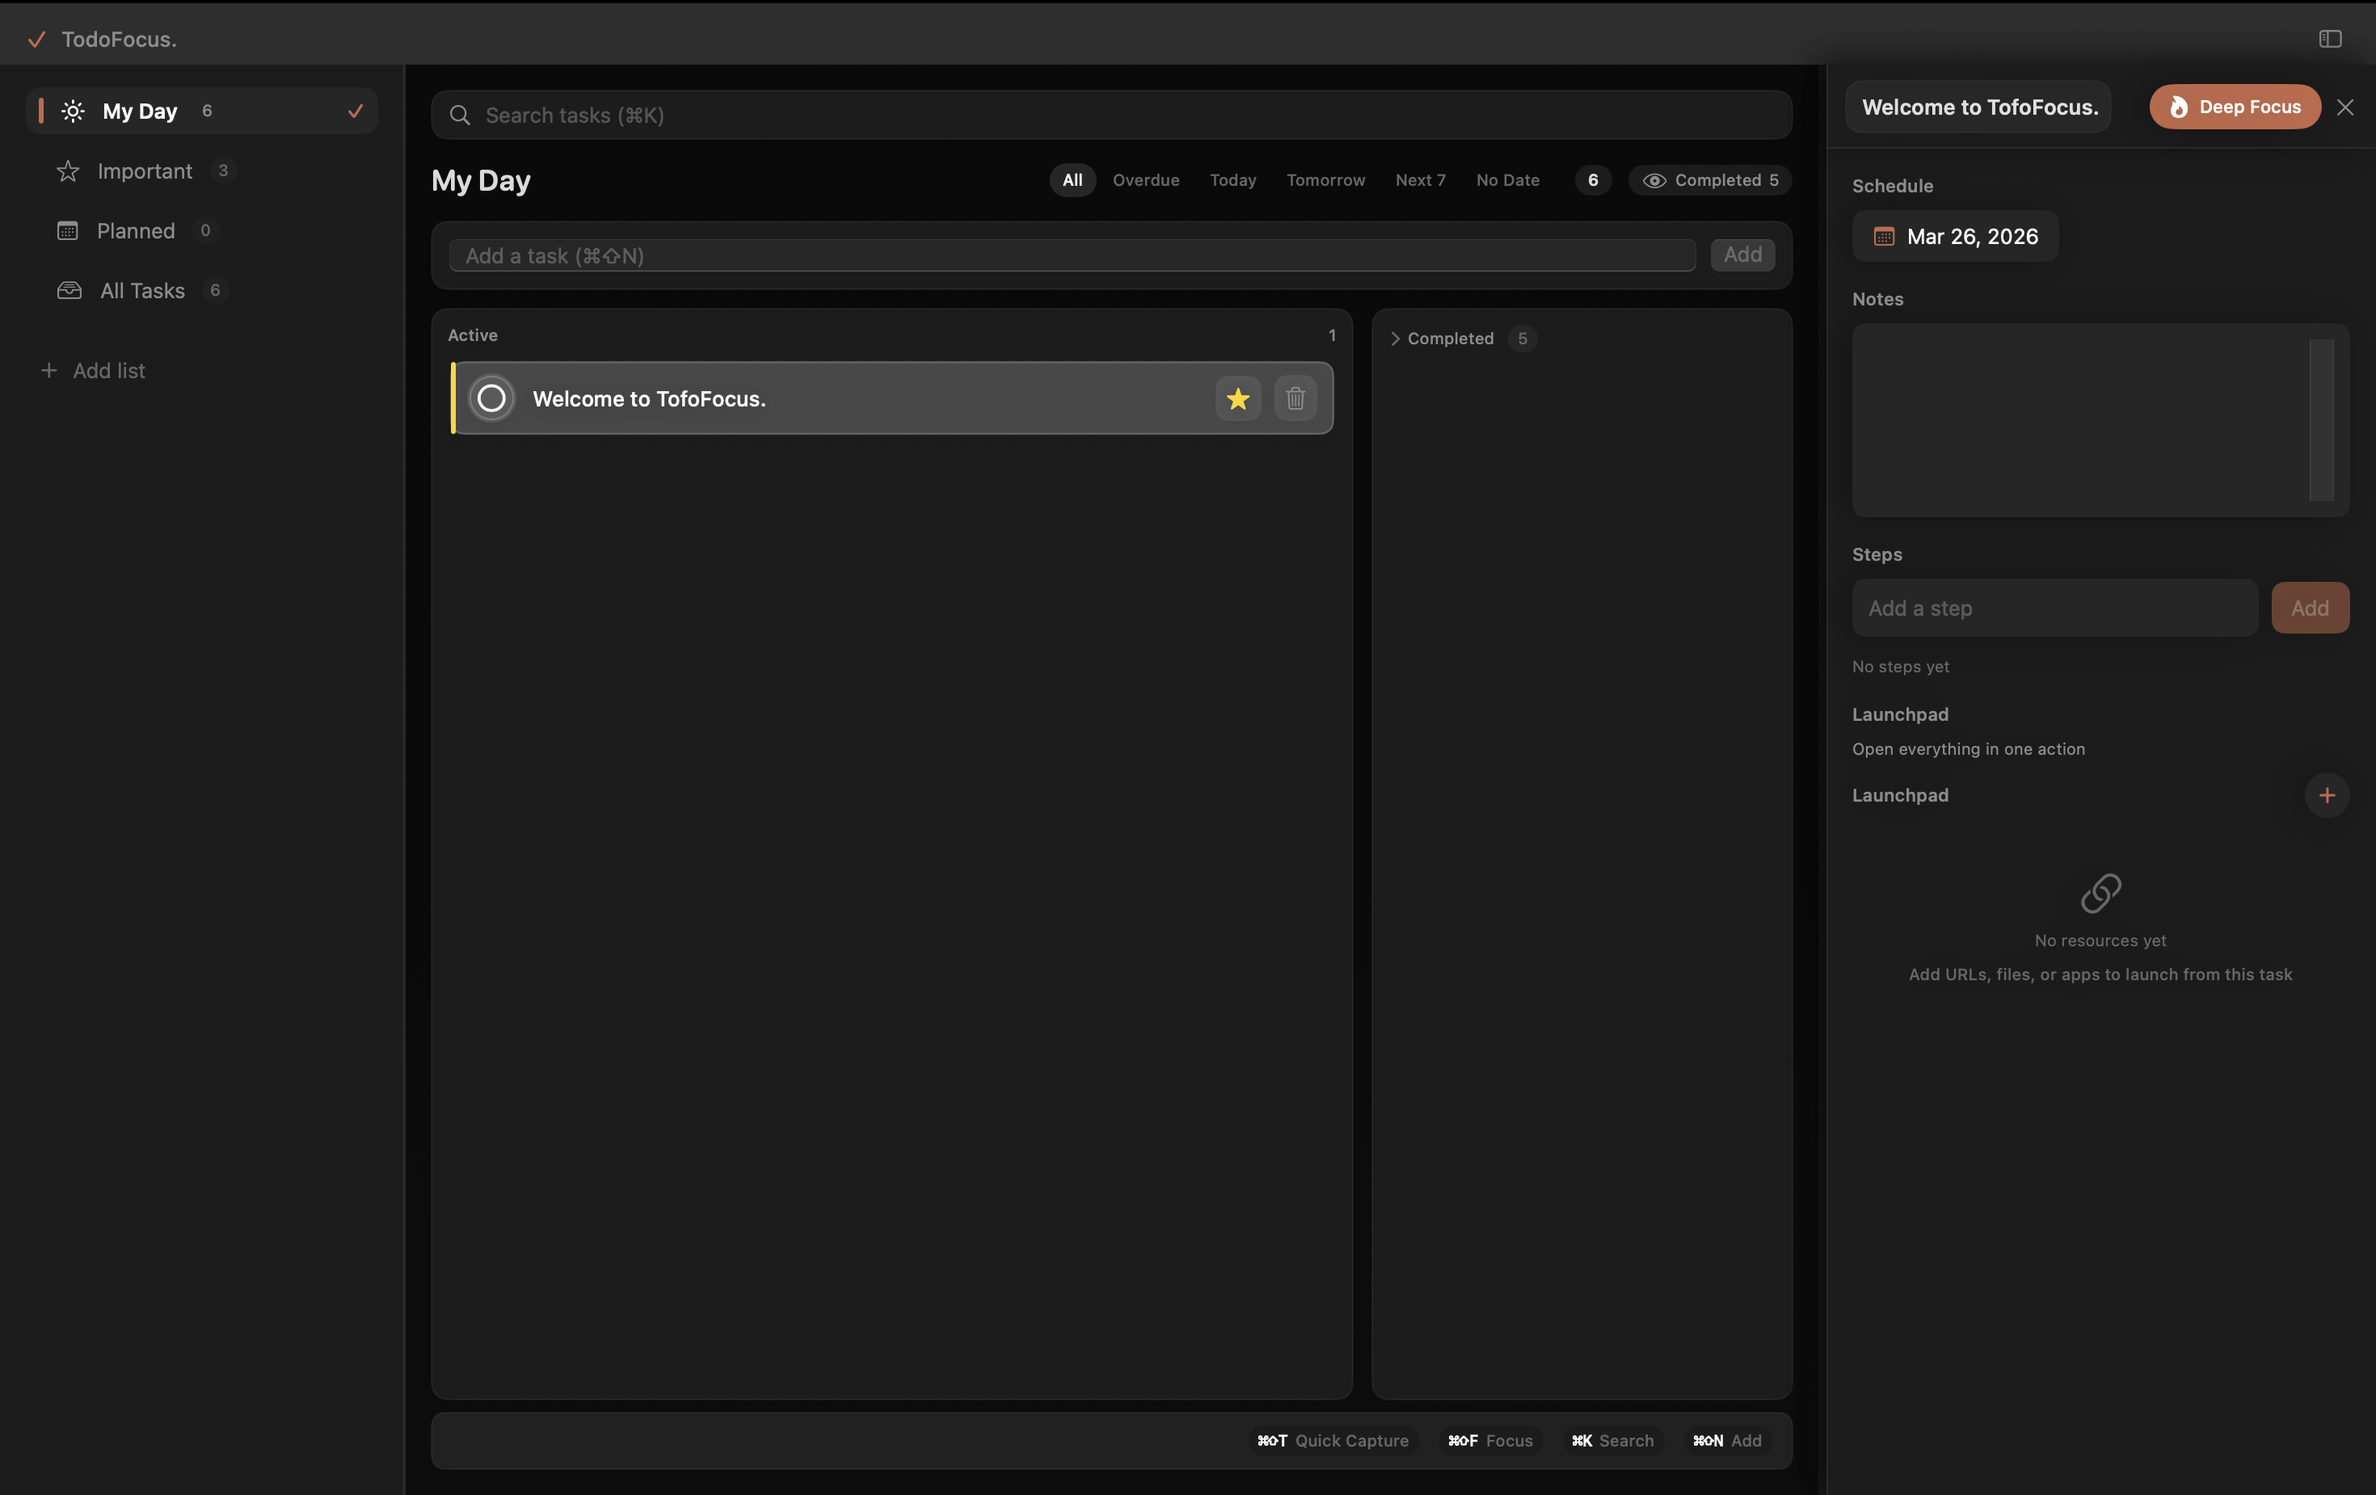
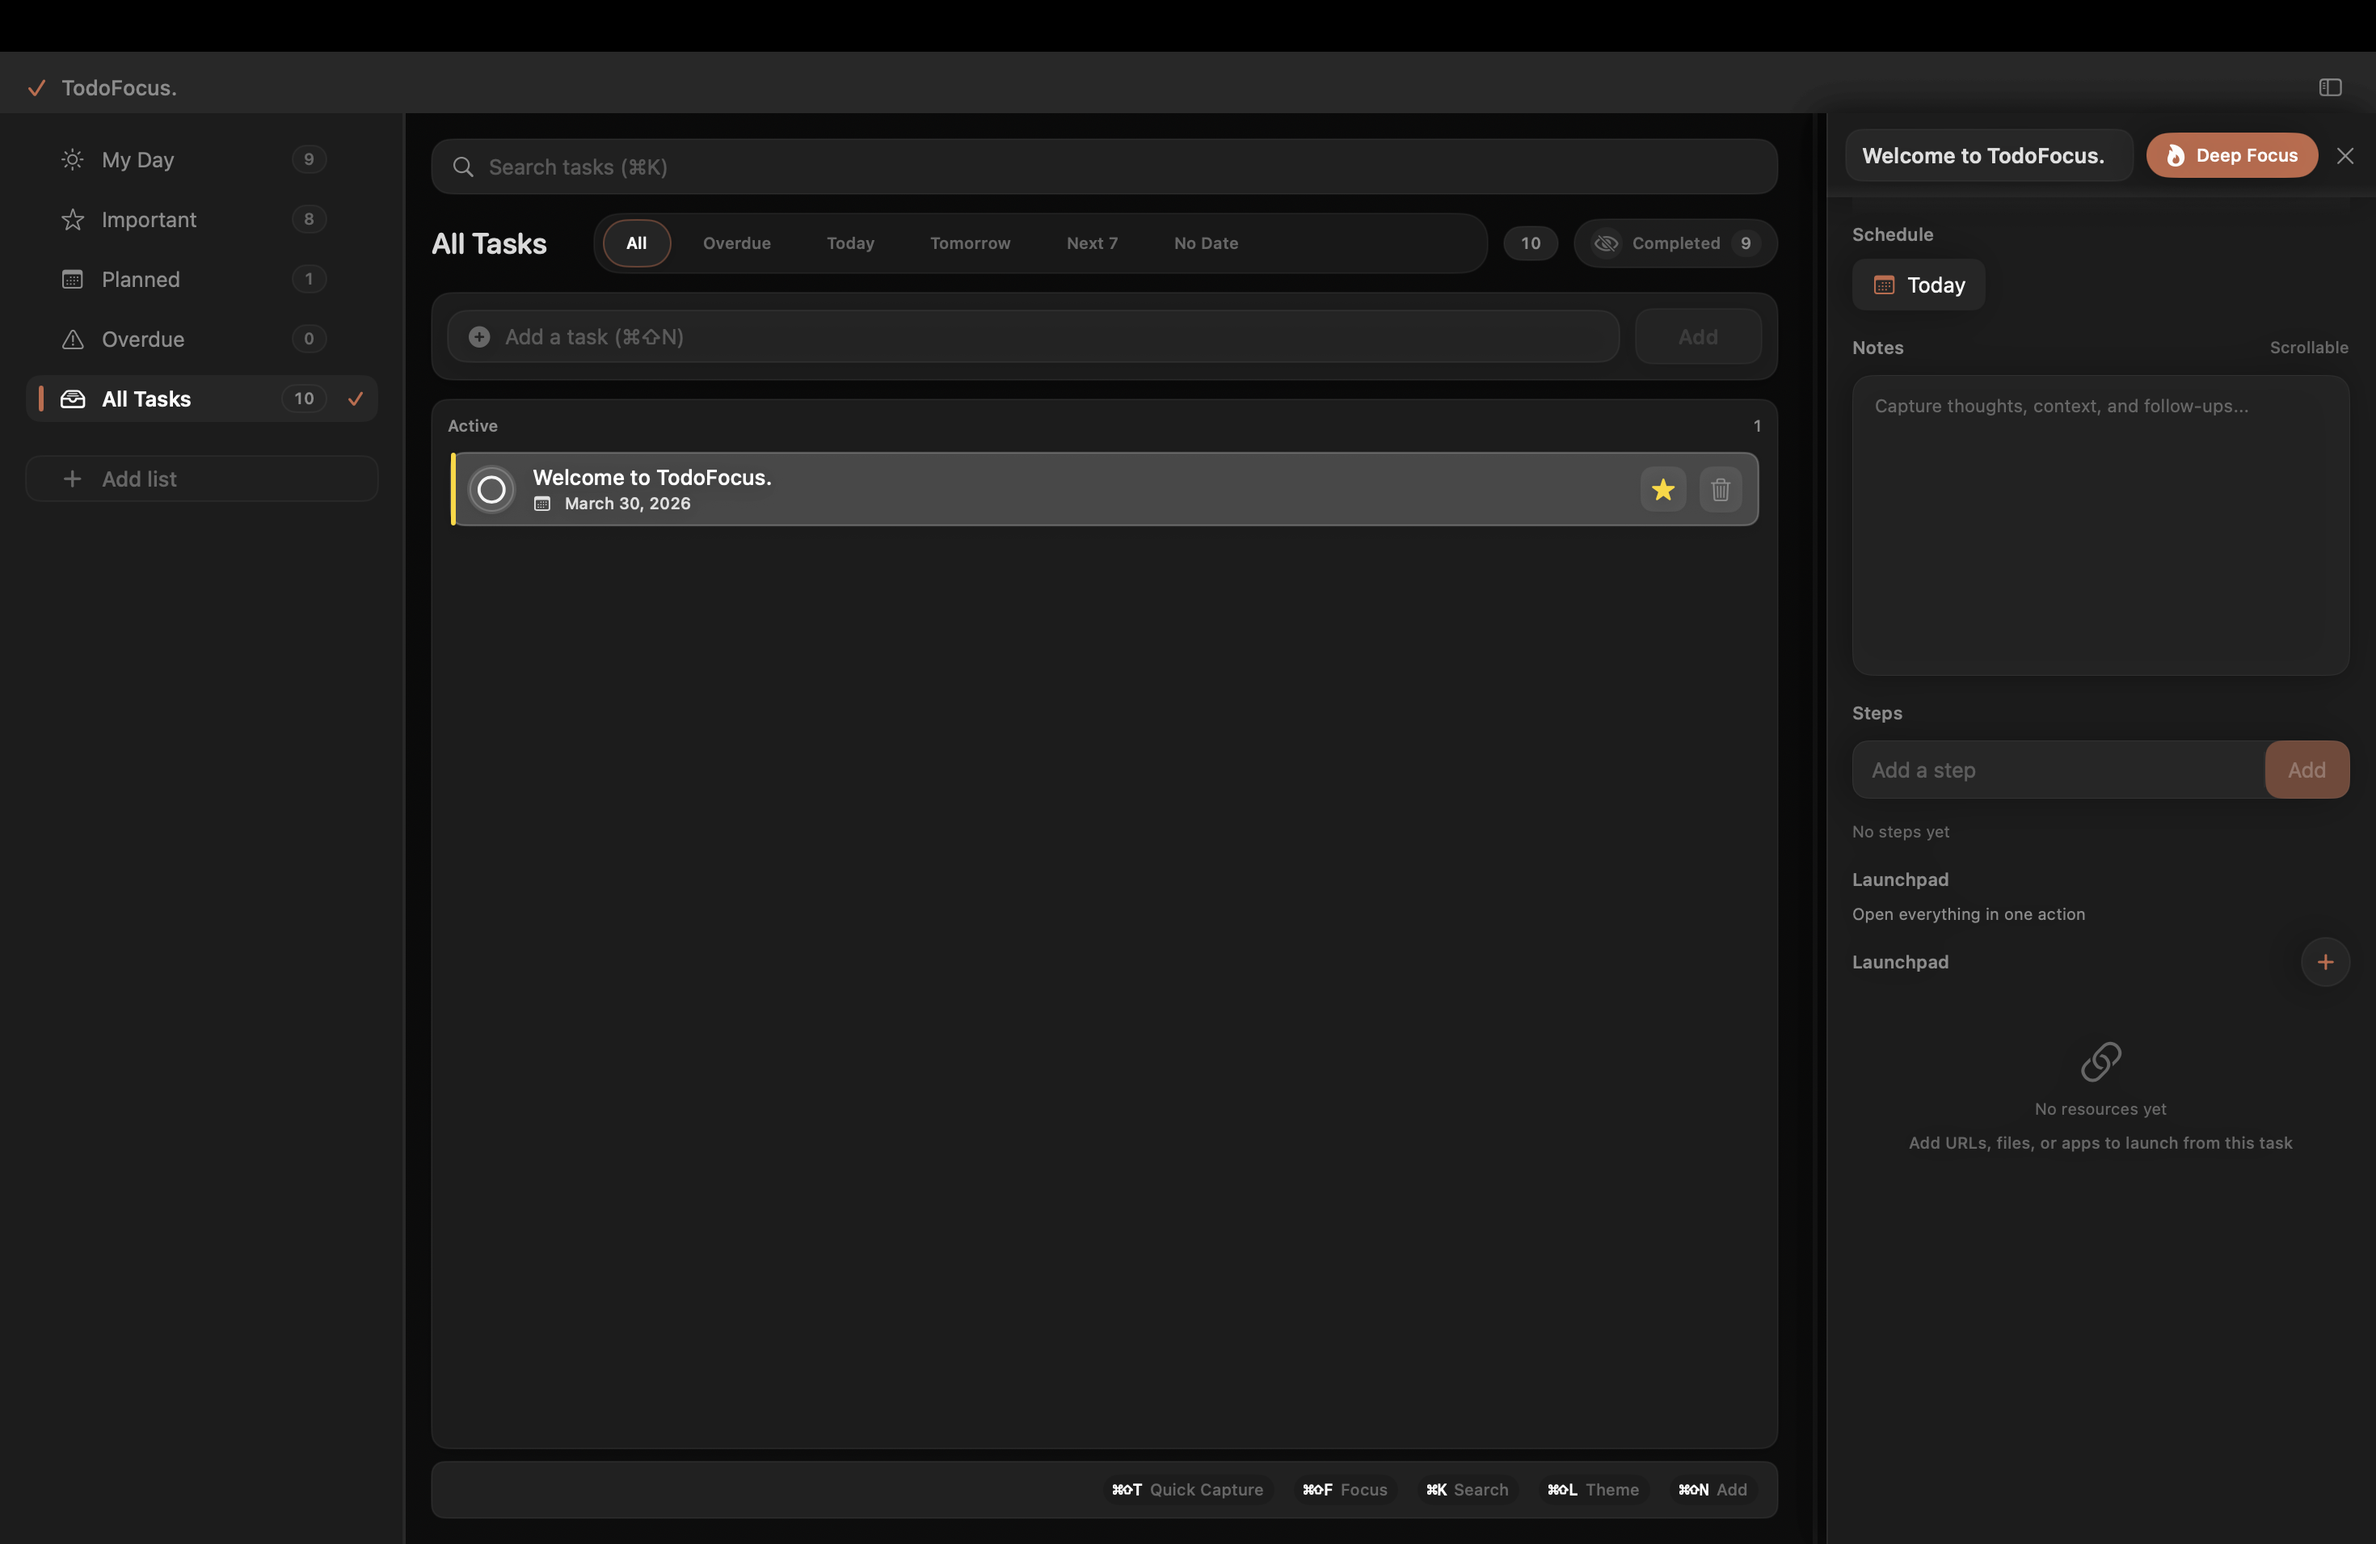
docs(readme): refresh hero screenshot and onboarding content

diff --git a/README.md b/README.md
@@ -7,6 +7,7 @@
 <p align="center">
   <a href="https://github.com/michaelmjhhhh/TodoFocus/releases"><img src="https://img.shields.io/badge/Download-Latest%20Release-0A84FF?style=for-the-badge" alt="Download Latest Release" /></a>
   <a href="https://github.com/michaelmjhhhh/TodoFocus"><img src="https://img.shields.io/badge/GitHub-Star%20Project-111111?style=for-the-badge" alt="Star Project" /></a>
+  <a href="#build-from-source"><img src="https://img.shields.io/badge/Build-From%20Source-2F855A?style=for-the-badge" alt="Build from Source" /></a>
 </p>
 
 <p align="center">
@@ -18,116 +19,189 @@
 </p>
 
 <p align="center">
-  <strong>Finish meaningful work with less context switching.</strong>
+  <strong>Turn tasks into execution sessions, not endless lists.</strong>
 </p>
 
 <p align="center">
-  TodoFocus is a local-first macOS task app built for execution: choose one task, launch its context, enter focus mode, and close it.
+  TodoFocus is a native, local-first macOS app for deep work: capture quickly, launch context instantly, and finish meaningful tasks with fewer interruptions.
 </p>
 
-## Why It Feels Different
+## Why TodoFocus
 
-| Focus Faster | Block Distractions | Launch Context Instantly |
+| Capture Fast | Focus Deep | Launch Context |
 |---|---|---|
-| Move from list to execution in seconds with My Day, smart filters, and one-click focus start. | Deep Focus and Hard Focus reduce interruption paths when you need protected work blocks. | Attach `url`, `file`, and `app` resources to a task and open everything with `Launch All`. |
+| Use Quick Add and global Quick Capture (`⌘⇧T`) to save thoughts without breaking flow. | Start Deep Focus or Hard Focus to reduce distraction paths while you execute. | Attach `url`, `file`, and `app` resources to each task and open all with one action. |
 
-## Quick Demo
+### Before vs After
 
-<p align="center">
-  <img src="assets/demo.gif" alt="TodoFocus Quick Demo" width="980" />
-</p>
-
-What to look for in this demo:
-- One selected task becomes an execution session, not another list item.
-- `Launch All` restores work context without tab hunting.
-- `⌘⇧T` captures thoughts without breaking flow.
-
-## Before vs After
-
-| Before | After with TodoFocus |
+| Before | With TodoFocus |
 |---|---|
-| Task list keeps growing | One task turns into one focused run |
-| Context switching drains attention | Work context opens in one action |
-| Distractions reset momentum | Focus modes preserve deep-work blocks |
+| Tasks pile up and stay abstract | One task becomes one focused execution block |
+| Constant tab/app switching | Context opens in one click via Launchpad |
+| Notes and ideas get lost | Quick Capture routes ideas back into your workflow |
 
-## How It Works
+## Quick Start (3 Minutes)
 
-1. Pick what matters with My Day, Smart Lists, and search (`⌘K`).
-2. Open context via task resources (`url`, `file`, `app`) and `Launch All`.
-3. Start `Deep Focus` (timed or infinite), enable `Hard Focus` when needed.
-4. Capture ideas globally with `⌘⇧T`, then keep shipping.
-
-## Built for Local-First Users
-
-- No account required. 
-- SQLite lives on your machine. Access the database freely.
-- Import/Export supports backup-safe replace and merge.
-- Database path: `~/Library/Application Support/todofocus/todofocus.db`.
-
-## Install
-
-### Fastest Path
-1. Open Releases: <https://github.com/michaelmjhhhh/TodoFocus/releases>
+### 1. Install
+1. Open releases: <https://github.com/michaelmjhhhh/TodoFocus/releases>
 2. Download `TodoFocus-macos-universal.zip`
 3. Move `TodoFocusMac.app` to `Applications`
 
-### If macOS Blocks the App ("Malware" / "Damaged" Warning)
-If macOS prevents launch because the app is from an unidentified developer or is flagged as potentially harmful:
+### 2. Launch Once
+1. Open `TodoFocusMac.app`
+2. If macOS warns, open `System Settings -> Privacy & Security`
+3. Click `Open Anyway`
 
-1. Try opening `TodoFocusMac.app` once from `Applications` (let it fail).
-2. Open `System Settings -> Privacy & Security`.
-3. Scroll to the Security section and find the message about `TodoFocusMac.app`.
-4. Click `Open Anyway`.
-5. Confirm again in the follow-up dialog (`Open`).
+### 3. Enable Permissions (for full experience)
+- Accessibility: required for global Quick Capture hotkey (`⌘⇧T`)
+- Microphone + Speech Recognition: required for voice capture in Quick Capture
 
-If you still see a warning, right-click the app in `Applications`, choose `Open`, then confirm once more. After this, macOS should trust future launches.
+Paths:
+- `System Settings -> Privacy & Security -> Accessibility`
+- `System Settings -> Privacy & Security -> Microphone`
+- `System Settings -> Privacy & Security -> Speech Recognition`
 
-### Build From Source
+### 4. Verify First Success
+- Create one task
+- Add one URL in Launchpad
+- Click `Launch All`
+- Start a Deep Focus session
 
-```bash
-brew install xcodegen
-git clone https://github.com/michaelmjhhhh/TodoFocus.git
-cd TodoFocus/macos/TodoFocusMac
-xcodegen generate
-xcodebuild build -project "TodoFocusMac.xcodeproj" -scheme "TodoFocusMac" -destination "platform=macOS"
-```
+If these work, your setup is complete.
 
-## First-Run Permission
+## Core Workflows
 
-For global quick capture (`⌘⇧T`), grant Accessibility permission:
-`System Settings -> Privacy & Security -> Accessibility`
+### Workflow A: Plan -> Launch -> Focus
+1. Select a task in `My Day` / `All Tasks` / custom list.
+2. Open task detail and add Launchpad resources.
+3. Click `Launch All` to open your work context.
+4. Start `Deep Focus` (optionally with timer).
+5. Finish, then close the loop in one place.
+
+### Workflow B: Quick Capture (Typing + Voice)
+1. Press `⌘⇧T` from anywhere.
+2. Type a thought or use voice capture.
+3. Voice behavior:
+- English is primary (`en-US`)
+- Chinese is fallback (`zh-CN`)
+- Final transcript is prioritized for commit
+- Partial transcript is preview-only
+4. After short silence, voice capture auto-finalizes.
+
+### Workflow C: Import / Export Safely
+1. Open Settings -> Data.
+2. Export data snapshot.
+3. Import with merge/replace mode based on your goal.
+4. Portability note: only URL launch resources are imported/exported across devices.
+
+## Feature Highlights
+
+- Smart views: `My Day`, `Important`, `Planned`, `Overdue`, `All Tasks`
+- Search with `⌘K`
+- Deep Focus and Hard Focus for distraction control
+- Launchpad per task with `url`, `file`, `app`
+- Global Quick Capture (`⌘⇧T`)
+- Voice capture with bilingual recognition strategy
+- Resizable task detail panel
+- Polished filter bar, sidebar alignment, and Launchpad editor UI
+- Theme support: dark / light / system (dark by default)
 
 ## Keyboard Shortcuts
 
 | Shortcut | Action |
 |---|---|
-| `⌘⇧T` | Quick Capture (global) |
-| `⌘⇧F` | Start Deep Focus for selected task |
+| `⌘⇧T` | Global Quick Capture |
+| `⌘⇧F` | Start Deep Focus on selected task |
 | `⌘⇧N` | Add new task |
-| `⌘K` | Search tasks |
+| `⌘K` | Search tasks by title and notes |
+
+## Data, Privacy, and Portability
+
+### Local-First Storage
+- No account required
+- Data is stored locally in SQLite
+- Database path: `~/Library/Application Support/todofocus/todofocus.db`
+
+### Import / Export Scope
+- Included: lists, tasks, steps, settings, URL launch resources
+- Excluded from cross-device import/export: file/app launch resources
+
+Why excluded:
+- File paths and app paths are device-local and often invalid on another machine.
+
+### Security Guardrails
+- Launch resources are opened through native `NSWorkspace`
+- No shell command execution path is used for Launchpad actions
+- Unsupported payloads are rejected by validation
+
+## Build From Source
+
+### Requirements
+- macOS 14+
+- Xcode 16+
+- `xcodegen`
+
+### Build and Test
+```bash
+brew install xcodegen
+git clone https://github.com/michaelmjhhhh/TodoFocus.git
+cd TodoFocus/macos/TodoFocusMac
+xcodegen generate
+xcodebuild test -project "TodoFocusMac.xcodeproj" -scheme "TodoFocusMac" -destination "platform=macOS"
+xcodebuild build -project "TodoFocusMac.xcodeproj" -scheme "TodoFocusMac" -destination "platform=macOS"
+```
+
+## Contributor Workflow
+
+For non-trivial changes, follow:
+1. Create/update issue
+2. Create fix/feat branch from `main`
+3. Implement focused changes
+4. Run verification gates:
+- `xcodebuild test ...`
+- `xcodebuild build ...`
+5. Open PR with linked issue and verification output
+
+See project rules in [AGENTS.md](AGENTS.md).
+
+## Troubleshooting
+
+### App Is Blocked by macOS
+- Open from `Applications` once
+- Go to `System Settings -> Privacy & Security`
+- Click `Open Anyway`
+- If needed, right-click app -> `Open`
+
+### Quick Capture Hotkey Does Not Trigger
+- Re-check Accessibility permission
+- Relaunch app after granting permission
+- If app signature changed after rebuild, grant again
+
+### Voice Input Feels Inaccurate or Slow
+- Speak complete phrases and allow a short pause for finalization
+- Confirm both Microphone and Speech permissions are granted
+- Use a stable input device and reduce background noise
+
+## Demo
+
+<p align="center">
+  <img src="assets/demo.gif" alt="TodoFocus Quick Demo" width="980" />
+</p>
 
 ## Roadmap Snapshot
 
-- Improve onboarding clarity and first-run guidance.
-- Continue Deep Focus / Hard Focus edge-case hardening.
-- Keep import/export reliability and UX polished.
+- Better onboarding and first-run guidance
+- Continued Deep Focus / Hard Focus reliability hardening
+- Ongoing import/export and UI polish improvements
 
-## Report Issues
-
-If something is off, open an issue with:
-- steps to reproduce
-- expected behavior
-- actual behavior
-- macOS version
-
-Issues: <https://github.com/michaelmjhhhh/TodoFocus/issues>
-
-## Support
+## Support and Feedback
 
 If TodoFocus helps your workflow:
 1. Star the repo: <https://github.com/michaelmjhhhh/TodoFocus>
-2. Share it with one macOS deep-work friend.
-3. Open one issue describing your biggest friction point.
+2. Share it with one macOS deep-work user
+3. Open issues with clear repro steps and environment details
+
+Issue tracker: <https://github.com/michaelmjhhhh/TodoFocus/issues>
 
 ## License
 

diff --git a/docs/superpowers/prs/2026-03-30-readme-hero-screenshot-refresh.md b/docs/superpowers/prs/2026-03-30-readme-hero-screenshot-refresh.md
@@ -1,0 +1,17 @@
+## Summary
+- refresh README with the latest product-positioned structure and updated visual hierarchy
+- replace hero screenshot with current full-app UI capture
+
+## Linked Issue
+Closes #105
+
+## Changes
+- updated `README.md` content structure for mixed audience (users + contributors)
+- replaced `assets/overdue-screenshot.png` with latest UI screenshot (`new.png` source)
+- kept this PR docs-only and separate from voice behavior/code fixes
+
+## Verification
+- `xcodebuild test -project "macos/TodoFocusMac/TodoFocusMac.xcodeproj" -scheme "TodoFocusMac" -destination "platform=macOS"`
+  - `** TEST SUCCEEDED **`
+- `xcodebuild build -project "macos/TodoFocusMac/TodoFocusMac.xcodeproj" -scheme "TodoFocusMac" -configuration Release -derivedDataPath "macos/TodoFocusMac/build/DerivedData" -destination "platform=macOS"`
+  - `** BUILD SUCCEEDED **`

diff --git a/docs/superpowers/issues/2026-03-30-readme-hero-screenshot-refresh.md b/docs/superpowers/issues/2026-03-30-readme-hero-screenshot-refresh.md
@@ -1,0 +1,11 @@
+## Summary
+Refresh the README hero screenshot so the landing section reflects the latest UI polish.
+
+## Goals
+- Replace the old hero screenshot with the latest full-app capture.
+- Keep README content and visual narrative aligned with current product state.
+- Deliver this as a docs-only PR, separate from voice logic changes.
+
+## Scope
+- `README.md`
+- `assets/overdue-screenshot.png`
